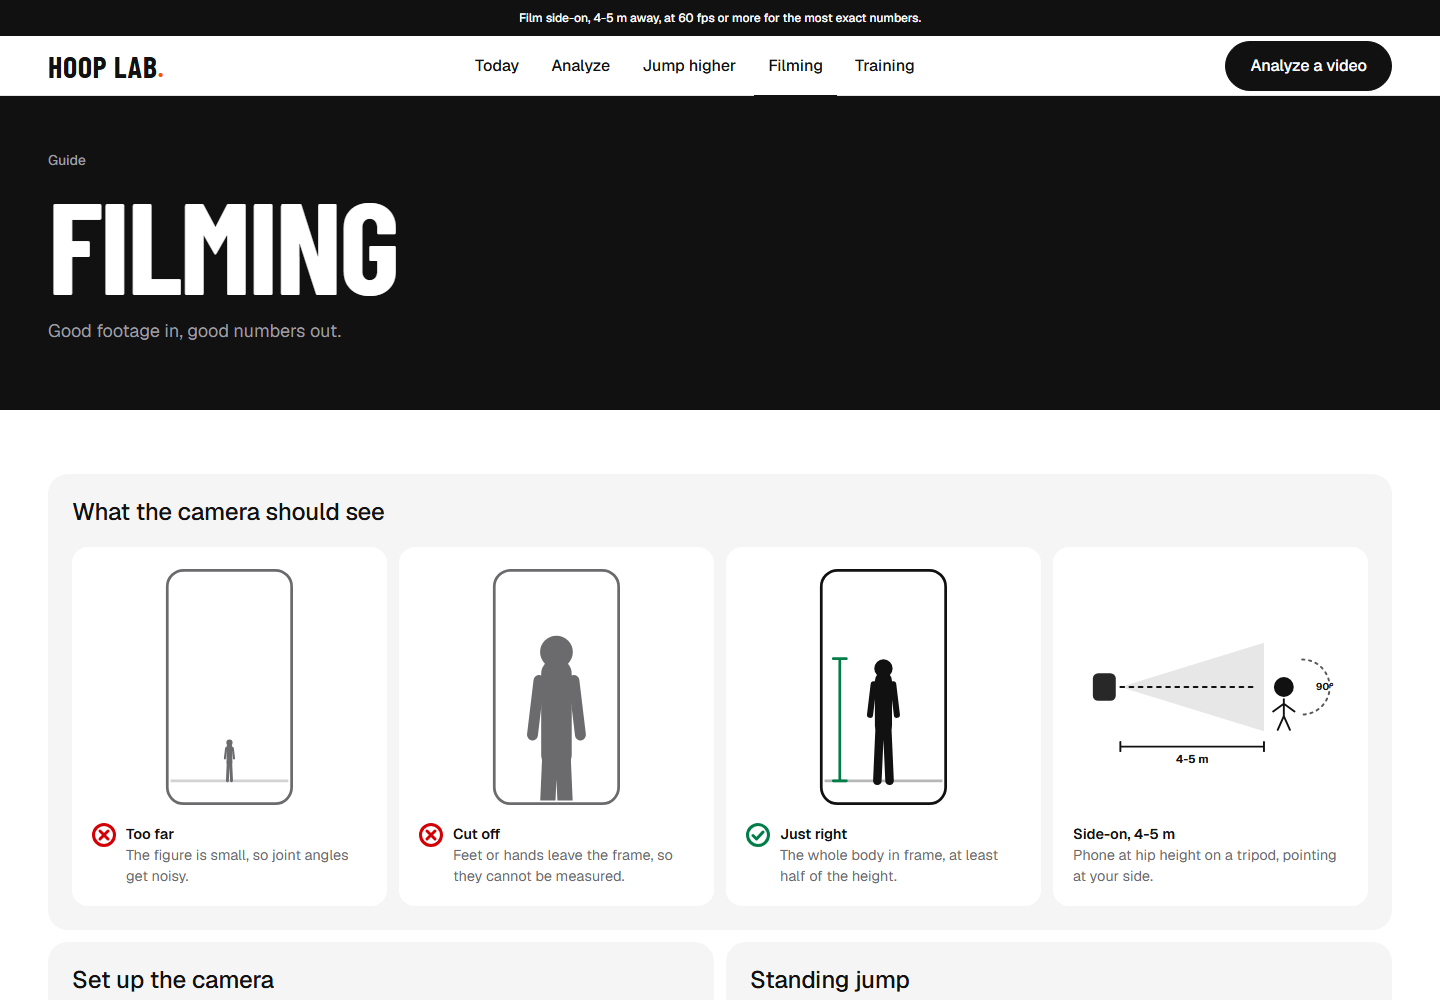
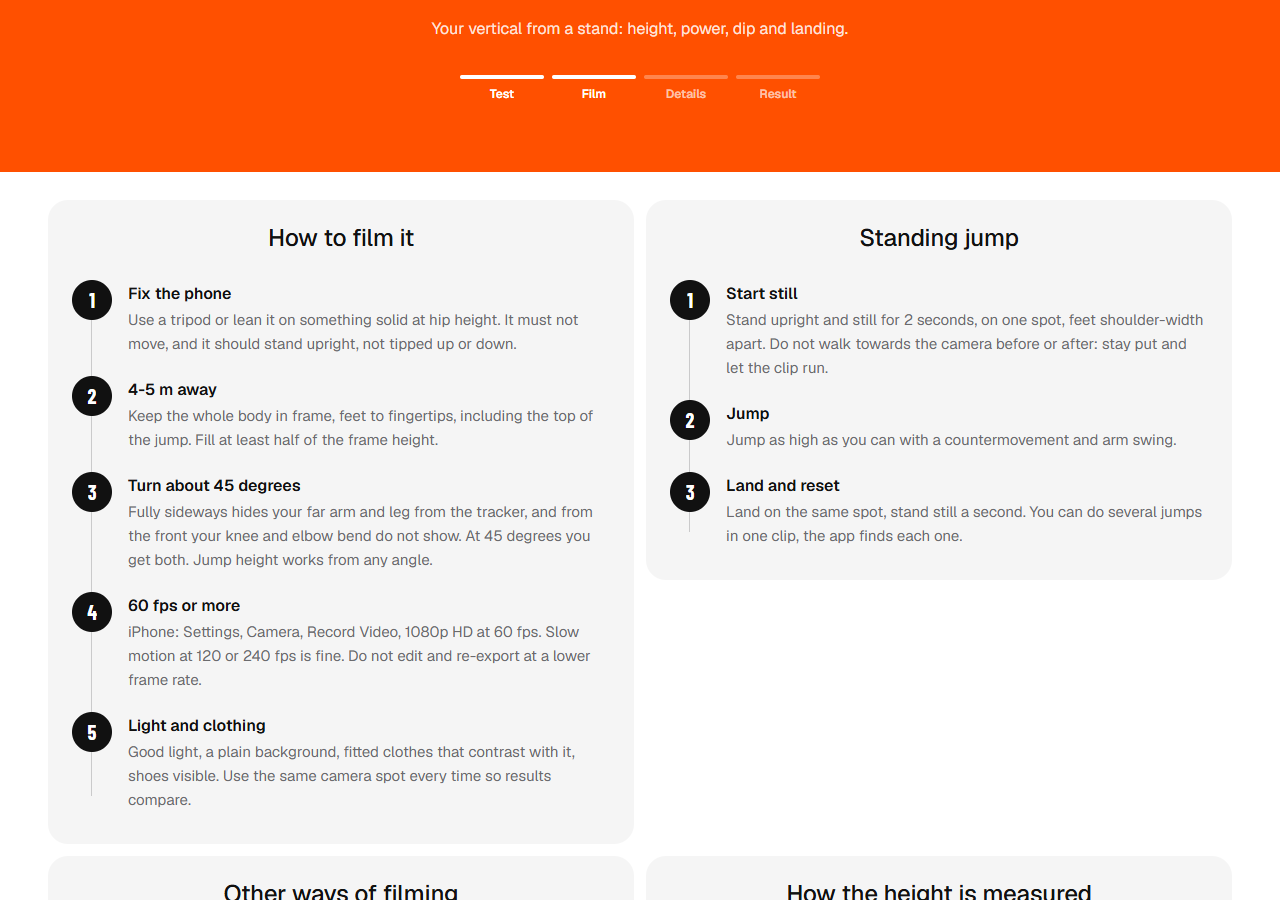
Jump timing pinned between frames (30 fps: average error from 6 to under 2 cm on synthetic jumps), test for it, README and screenshots for the current app

diff --git a/src/analysis.ts b/src/analysis.ts
@@ -1,4 +1,4 @@
-import type { Pose } from './pose';
+import type { Pose, Pt } from './pose';
 
 export type Kind = 'standing' | 'dunk' | 'shot';
 export type Status = 'good' | 'warn' | 'bad' | 'info';
@@ -161,14 +161,32 @@ function calibrate(pose: Pose, heightCm: number, from = 0, to = pose.frames.leng
   return (heightCm * ratio) / percentile(spans, 0.9); // nose-to-ankle is about 89% of body height, unless it was measured on this person
 }
 
-function lowestFoot(pose: Pose): { low: number[]; ground: number } {
-  const low = series(pose, (p) => Math.max(p(29)[1], p(30)[1], p(31)[1], p(32)[1]));
-  return { low, ground: percentile(low, 0.9) };
+function lowestFoot(pose: Pose): { low: number[]; raw: number[]; ground: number } {
+  const foot = (lm: Pt[] | null): number => (lm ? Math.max(lm[29].y, lm[30].y, lm[31].y, lm[32].y) * pose.height : NaN);
+  const raw = fillGaps(pose.frames.map(foot)); // not smoothed: smoothing smears the moment the foot leaves the floor
+  const low = smooth(raw);
+  return { low, raw, ground: percentile(low, 0.9) };
+}
+
+/** Height (cm) at which the foot is taken to leave or touch the floor between two frames: above tracker noise, low enough to be near contact. */
+const CONTACT_CM = 2;
+
+/**
+ * The moment, in frames with a fraction, that the foot passes CONTACT_CM on the way up (dir 1) or down (dir -1), searched
+ * around frame `near`. Between two frames the foot moves almost in a straight line, so the crossing is interpolated.
+ */
+function crossing(lift: number[], near: number, dir: 1 | -1): number | null {
+  for (let k = Math.max(0, near - 2); k <= Math.min(lift.length - 2, near + 2); k++) {
+    const [a, b] = [lift[k], lift[k + 1]];
+    if (dir > 0 ? a <= CONTACT_CM && b > CONTACT_CM : a > CONTACT_CM && b <= CONTACT_CM) return k + (CONTACT_CM - a) / (b - a);
+  }
+  return null;
 }
 
 interface Flight {
   takeoff: number; // last frame on the ground
   landing: number; // first frame back on the ground
+  air?: number; // time in the air in frames, with a fraction, when the moments of leaving and touching the floor could be pinned between frames
   ground: number; // floor level (pixel y) at the place of takeoff
   peak: number; // highest foot clearance in cm
 }
@@ -179,7 +197,7 @@ interface Flight {
  * shifts when the person moves towards or away from the camera.
  */
 function findFlights(pose: Pose, cm: number, near?: [number, number]): Flight[] {
-  const { low } = lowestFoot(pose);
+  const { low, raw } = lowestFoot(pose);
   // floor level per frame: the lowest foot position within 1 s around it, so a floor that
   // shifts in the image (person moves closer or further away) does not look like flight
   const reach = pose.fps;
@@ -204,7 +222,11 @@ function findFlights(pose: Pose, cm: number, near?: [number, number]): Flight[] 
         for (let w = 0; w < maxWalk && landing < lift.length - 1 && lift[landing + 1] <= lift[landing] && lift[landing] > 1.5; w++) landing++;
         const ground = percentile(low.slice(Math.max(0, takeoff - pose.fps), takeoff + 1), 0.9);
         const peak = (ground - Math.min(...low.slice(start, end + 1))) * cm;
-        flights.push({ takeoff, landing, ground, peak });
+        // between frames: when did the foot really pass just above the floor, on the way up and on the way down
+        const liftRaw = raw.map((y, i) => (floor[i] - y) * cm);
+        const up = crossing(liftRaw, takeoff, 1);
+        const down = crossing(liftRaw, landing - 1, -1);
+        flights.push({ takeoff, landing, ground, peak, ...(up !== null && down !== null && down > up ? { air: down - up } : {}) });
       }
       start = -1;
     }
@@ -331,8 +353,14 @@ function jumpResult(pose: Pose, fl: Flight, cm: number, kind: 'standing' | 'dunk
 
   const apex = argmin(hipY, fl.takeoff, fl.landing);
   const rise = (hipY[fl.takeoff] - hipY[apex]) * cm;
-  // takeoff and landing are both frames with a foot still on the floor, so the real flight is about a frame shorter
-  const flightTime = (fl.landing - fl.takeoff - 1) / fps;
+  // takeoff and landing are both frames with a foot still on the floor, so the real flight is about a frame shorter;
+  // better: the moments the foot passed just above the floor, pinned between frames. Those miss the first and last
+  // CONTACT_CM of the flight, which at takeoff speed (g * T / 2) takes 2 * CONTACT_CM / (g * T / 2) seconds, added back.
+  let flightTime = (fl.landing - fl.takeoff - 1) / fps;
+  if (fl.air !== undefined) {
+    const t = fl.air / fps;
+    flightTime = t + (4 * (CONTACT_CM / 100)) / (G * t);
+  }
   const hangHeight = (100 * G * flightTime * flightTime) / 8;
 
   // countermovement: how far the hips lower in the last 0.8 s before takeoff

diff --git a/tests/subframe.test.ts b/tests/subframe.test.ts
@@ -1,0 +1,62 @@
+// The flight-time height when the jump does not start exactly on a frame: many heights, many offsets, at 30 and 60 fps.
+// Takeoff and landing are pinned between frames, so even 30 fps stays within a few centimetres.
+import assert from 'node:assert/strict';
+import { test } from 'node:test';
+import { analyzeJump } from '../src/analysis.ts';
+
+const G = 9.81;
+const W = 1000;
+const H = 1000;
+const BODY_CM = 185;
+
+function build(jumpCm: number, fps: number, offset: number) {
+  const px = 4;
+  const ground = 900;
+  const stand = 1.6 + offset / fps;
+  const dip = 0.4;
+  const rise = 0.25;
+  const flight = 2 * Math.sqrt((2 * (jumpCm / 100)) / G);
+  const total = stand + dip + rise + flight + 1;
+  const frames = [];
+  for (let i = 0; i < total * fps; i++) {
+    const t = i / fps;
+    let lift = 0;
+    let hipDrop = 0;
+    const tDip = t - stand;
+    const tFly = t - (stand + dip + rise);
+    if (tDip > 0 && tDip < dip) hipDrop = 30 * Math.sin((Math.PI * tDip) / dip / 2);
+    else if (tDip >= dip && tFly < 0) hipDrop = 30 * (1 - (tDip - dip) / rise);
+    if (tFly > 0 && tFly < flight) lift = 100 * (G * tFly * ((flight - tFly) / 2));
+    const ankleY = ground - 8 - lift * px;
+    const noseY = ankleY - 0.89 * BODY_CM * px + 8;
+    const hipY = ankleY - 0.5 * BODY_CM * px + hipDrop * px;
+    const kneeY = (hipY + ankleY) / 2;
+    const lm = Array.from({ length: 33 }, () => ({ x: 300 / W, y: hipY / H }));
+    const set = (k: number, x: number, y: number) => (lm[k] = { x: x / W, y: y / H });
+    set(0, 300, noseY);
+    for (const [k, dx] of [[11, -5], [12, 5], [23, -5], [24, 5]] as const) set(k, 300 + dx, k < 20 ? (noseY + hipY) / 2 : hipY);
+    for (const k of [25, 26]) set(k, 325, kneeY);
+    for (const k of [27, 28]) set(k, 300, ankleY);
+    for (const k of [29, 30]) set(k, 290, ankleY + 8);
+    for (const k of [31, 32]) set(k, 320, ankleY + 8);
+    for (const k of [13, 14, 15, 16, 19, 20]) set(k, 300, hipY);
+    frames.push(lm);
+  }
+  return { fps, width: W, height: H, frames, balls: [], world: [] };
+}
+
+const LIMITS: Record<number, { mean: number; worst: number }> = { 30: { mean: 2.5, worst: 5 }, 60: { mean: 0.8, worst: 2 } };
+for (const fps of [30, 60]) {
+  test(`flight-time height is exact to a few cm at ${fps} fps, wherever the jump falls between frames`, () => {
+    const errs: number[] = [];
+    for (const cm of [30, 40, 50, 60, 70]) {
+      for (let o = 0; o < 1; o += 0.1) {
+        const r = analyzeJump(build(cm, fps, o) as never, BODY_CM, 'standing');
+        errs.push(Math.abs(parseFloat(r.metrics.find((m) => m.label.startsWith('Jump height (flight'))!.value) - cm));
+      }
+    }
+    const mean = errs.reduce((a, b) => a + b, 0) / errs.length;
+    assert.ok(mean <= LIMITS[fps].mean, `mean error ${mean.toFixed(2)} cm`);
+    assert.ok(Math.max(...errs) <= LIMITS[fps].worst, `worst error ${Math.max(...errs).toFixed(2)} cm`);
+  });
+}

diff --git a/README.md b/README.md
@@ -22,7 +22,7 @@
 </p>
 
 <p align="center">
-  <img src="docs/dashboard.png" alt="The Hoop Lab dashboard with jump trend, shot score and advice (demo data)" width="900">
+  <img src="docs/dashboard.png" alt="Home: your numbers per discipline and the jump trend (demo data)" width="900">
 </p>
 
 <p align="center"><sub>Screenshots show the built-in demo data (<code>?demo</code>), not real people.</sub></p>
@@ -35,16 +35,20 @@ fps. What is missing is the part that turns that video into numbers you can trus
 
 ## What Hoop Lab does
 
-Pick the type of test, drop in a video and fill in your real height and weight. Hoop Lab steps through the video,
-finds your joints in every frame, finds each jump or shot in the clip and measures it.
+Pick the test, film it or choose a video, check your height (and weight for a jump) and press Analyze. Hoop Lab steps
+through the video, finds your joints in every frame, finds each jump or shot in the clip and measures it.
 
 - **Standing jump and dunk approach jump:** jump height, flight time, countermovement depth, dip bottom to takeoff,
-  landing knee angle, an estimated relative power and, for the dunk, approach speed and reach above the rim.
+  landing knee angle, an estimated relative power and, for the dunk, approach speed and reach above the rim. When both
+  legs are clearly in view each is measured on its own and an uneven landing is flagged; a leg hidden behind the other is
+  left out instead of guessed.
 - **Jump shot:** a form score and the numbers behind it: knee bend, elbow at set point and at release, release height
   and angle, set point to release time, wrist flick, follow-through, how the release lines up with the top of your jump,
-  and forward drift. The ball is tracked, so the launch angle is measured and not guessed.
+  and forward drift. The ball is tracked, so the launch angle is measured and not guessed. With several balls in view it
+  follows the one in your hands, frame by frame.
 - **Where it went wrong:** the key moments of every jump or shot (dip, takeoff, landing; set point, release) are drawn as the
-  tracked body with the joint angles on it. A wedge shows each angle, flagged angles are coloured and show their target,
+  tracked body with the joint angles on it. A wedge between the two limbs shows each angle (the number is the joint angle
+  measured in 3D), flagged angles are coloured and show their target,
   and the card is outlined when it needs work. They are saved with the session as small drawings (about 2 KB), not as
   video, so they contain no faces and can be opened again later. Optionally (off by default) a photo of each moment can
   be kept too: it is cut around you, about 25 KB, stored on this device only and not part of backups, and the drawing is
@@ -52,22 +56,22 @@ finds your joints in every frame, finds each jump or shot in the clip and measur
 - **Replay:** the tracked skeleton of every jump or shot, with a timeline you can step through by phase.
 - **Advice:** every metric that is flagged comes with a plain explanation and concrete drills, with sets and reps. Each
   drill has a Watch link that opens a video search for how to do it, only when you click it.
-- **Progress:** a dashboard with your jump trend, shot score, personal bests, the habits that keep coming back, and an
-  exercise log.
+- **Progress:** Home shows your numbers, the trend chart per discipline, the habits that keep coming back and your recent
+  sessions. Every result ends with three exercises for the coming week that you can log with one tap.
 - **Framing check:** a live camera view that tracks your body and tells you what to fix before you film: whole body in
   frame, big enough with room to jump, turned about 45 degrees (required for a shot, only advised for a jump, whose height works from any
   angle; fully sideways hides your far arm and leg from the tracker), enough light. You can record right there with a 5 second countdown, and the clip goes straight into Analyze.
   The app asks the phone for 60 fps and counts the frames it really gets, so the analysis uses the true frame rate. Some phones only give 30 fps to a browser; then film with your camera app at 60 fps and choose the file.
-- **Built for the phone:** lists of cards become swipeable rows with dots, guide sections fold open one at a time, and long
-  tables show the latest rows first, so there is no endless scrolling.
+- **Built for the phone:** lists of cards become swipeable rows with dots, guide sections fold open one at a time, long
+  tables show the latest rows first, and during a test the buttons sit in the bottom bar, where the tabs normally are.
 - **Correct it by hand:** the takeoff and landing are found automatically; if they are off, adjust them frame by frame and the result and dashboard update. A clip the tracker cannot follow can be measured entirely by hand from the flight time.
 - **Reach test:** the classic Vertec-style measurement by hand: standing reach against a wall and the highest touch of the jump, read off the same picture with the scale from your own height.
 - **Your own scale:** drag two lines on a frame where you stand tall, from the top of your head to your soles. The app learns your nose-to-ankle proportion and uses it for every analysis, instead of the average.
 - **Phone tilt:** a phone that leans sideways is turned back automatically, and the framing check reads the phone's own tilt sensor and warns when it is tipped up or down.
-- **Three tabs:** Today (your charts, and once you have results quick Record and Upload buttons that land in Analyze with your last test filled in), Analyze (swipe to the test, read how to film it right under it, then record or choose a video) and Training (exercises you can log with one tap, your volume, plus how to jump higher).
+- **Three tabs and a test flow:** Home (your numbers and trend, a Test button per discipline, Settings behind the gear), Analyze (four steps: pick the test, film it, your details, the result, each discipline in its own colour) and Training (the same three disciplines with the exercises that fit them, your volume, and how to jump higher). Settings holds your height and weight, the jump goal, install, backup and the version number.
 
 <p align="center">
-  <img src="docs/result.png" alt="Result of one analyzed shot, with every metric on a range gauge and the advice that follows (demo data)" width="900">
+  <img src="docs/result.png" alt="A saved jump: what to work on, every metric on a range gauge, and the key moments (demo data)" width="900">
 </p>
 
 ## How it is different
@@ -112,23 +116,24 @@ npm run dev   # then open http://localhost:5173
 
 On Windows you can also double-click `start.cmd`. It installs on first run, opens the browser and starts the app.
 
-1. Open **Analyze** and enter your real height and weight. They set the scale and the power estimate, so wrong values
-   give wrong numbers. There are no default values on purpose.
-2. Choose the test, choose or drop a video, press **Analyze**. The frame rate is read from the file. Clips at 120 or 240
-   fps are analyzed at 60, or an exact divisor of it, to keep tracking fast.
-3. Keep the tab open until it finishes. The analysis keeps running if you switch tabs inside the app. Expect about 1.5
-   minutes for a 15 second jump clip and about 4 minutes for a 20 second shot clip (the shot also tracks the ball).
-4. The result is saved to the dashboard. Open any session later from the list.
+1. Open **Analyze** and swipe to the test: standing jump, dunk approach or jump shot.
+2. Record with the camera or choose a video. The frame rate is read from the file. Clips at 120 or 240 fps are analyzed at
+   60, or an exact divisor of it, to keep tracking fast.
+3. Enter your real height and, for a jump, your weight. They set the scale and the power estimate, so wrong values give
+   wrong numbers. There are no default values on purpose. A shot works without a height; distances are then estimates.
+4. Press **Analyze** and keep the app open until it finishes. Expect about 1.5 minutes for a 15 second jump clip and
+   about 4 minutes for a 20 second shot clip (the shot also tracks the ball).
+5. The result is saved. Open any session later from Home.
 
 To try the app before you have a video, open `http://localhost:5173/?demo`. It loads clearly labelled sample data that
 you can remove in one click.
 
 From a phone on the same wifi: `npm run dev` prints a Network URL. Open it on the phone and choose a video. Results live
-in the browser you used, so phone and PC keep separate dashboards. Use **Your data** on the dashboard to export a backup
+in the browser you used, so phone and PC keep separate results. Use **Your data** in Settings to export a backup
 and import it somewhere else.
 
 <p align="center">
-  <img src="docs/filming-guide.png" alt="The filming guide with camera diagrams (demo data)" width="900">
+  <img src="docs/filming-guide.png" alt="The Film step: how to film the test you picked (demo data)" width="900">
 </p>
 
 ## On your phone
@@ -147,8 +152,8 @@ address is `https://lexvanwalsem.github.io/hoop-lab/`. Any other static host wit
 2. After the first start the app and its models are cached, so it also works offline.
 
 HTTPS is required for installing and for the camera in the framing check. A plain `http://` address on your wifi still
-works for analyzing videos, just not for installing. Results live in the browser or app you used: use **Your data** on
-the dashboard to move a backup between devices: on a phone the export opens the share sheet, so you can save the file
+works for analyzing videos, just not for installing. Results live in the browser or app you used: use **Your data** in
+Settings to move a backup between devices: on a phone the export opens the share sheet, so you can save the file
 to Files, iCloud or Drive, or mail it to yourself. Import picks the file again from there. Speed depends on the phone, and tracking is slower on older ones.
 
 ## Filming in short
@@ -160,7 +165,7 @@ to Files, iCloud or Drive, or mail it to yourself. Import picks the file again f
 - Stay on one spot and stand still for 2 seconds at the start. Do not walk towards the camera: the tracker then mistakes the shifting floor for a jump. Good light, a plain background, fitted clothes, shoes visible.
 - Use the same camera spot every time so results are comparable.
 
-The **Record** tab shows how to film right under the test you pick, with diagrams.
+The **Film** step in Analyze shows how to film the test you picked, with diagrams.
 
 ## How it works
 
@@ -169,7 +174,8 @@ The **Record** tab shows how to film right under the test you pick, with diagram
 2. **Calibration.** The scale in centimetres per pixel comes from your height: the nose-to-ankle span is about 89 % of
    your height, measured while you stand upright in the 4 seconds before takeoff. Wrong height means wrong scale.
 3. **Jump height.** The standing jump height comes from flight time, `h = g * T^2 / 8`, where `T` is the time between
-   takeoff and landing. It needs no scale at all, which makes it the most reliable number. The rise of the hips is shown
+   takeoff and landing. It needs no scale at all, which makes it the most reliable number. The moments the feet leave and
+   touch the floor are pinned between two frames, so the timing is finer than one frame. The rise of the hips is shown
    next to it. Relative power uses the Sayers formula, `60.7 * jump height + 45.3 * body mass - 2055`, and is an
    estimate for comparing yourself over time, not an exact measure.
 4. **Shots.** A shot is the shooting wrist above the nose with the elbow extending, and shots less than 2 seconds apart
@@ -187,28 +193,29 @@ The **Record** tab shows how to film right under the test you pick, with diagram
 - **Honest numbers.** Targets in the app are starting points, the accuracy is stated below, and demo data is always
   labelled.
 - **Tests.** `npm test` checks the calibration, jump and shot detection on synthetic stick-figure clips with known
-  answers, and the storage, backup, advice and video header logic.
+  answers (including jump height at 30 and 60 fps wherever the jump falls between frames), picking the right ball among
+  several, measuring both legs, and the storage, backup, advice and video header logic.
 
 ## Limits
 
-- Accuracy is roughly 3 to 5 cm for the jump. The same video can differ a few centimetres between runs, because stepping
-  through a video does not land on exactly the same frames every time.
-- At 30 fps the jump height is fine, but takeoff and landing timing and shot timing are coarse (33 ms per frame).
+- On synthetic clips with a known answer the flight-time height is off by about 2 cm on average at 30 fps and well under
+  1 cm at 60 fps. Real clips add tracker noise, so expect roughly 3 to 5 cm. The same video can differ a little between
+  runs, because stepping through a video does not land on exactly the same frames every time.
+- At 30 fps shot timing is coarse (33 ms per frame). Film at 60 fps or more for shots.
 - A figure that is small in the frame makes joint angles noisy. A front view is less accurate than a side view for joint
   angles.
 - Ball detection uses a generic "sports ball" model. A ball hidden in the hand or blurred is often missed. When it is
-  not found, the release is estimated from the elbow.
+  not found, the release is estimated from the elbow. With several balls in view the one nearest your hands is followed.
 - Make or miss is out of scope. Hoop Lab is about form, not outcome.
 - Some iPhone videos are HEVC (H.265) and not every browser can decode them. Use Safari or Edge, or convert the video to
   H.264.
-- Tracking takes minutes, and a browser can slow down background tabs. Keep the analysis tab visible.
+- Tracking takes minutes, and a browser can slow down background tabs. Keep the app open and in front.
 - Metric thresholds in `src/analysis.ts` are starting points. Tune them to your own good reps.
 - This is general training information, not medical advice. Stop if you feel pain.
 
 ## What is next
 
 - Compare two sessions side by side
-- Draw the tracked skeleton on top of your original video
 - A free-throw and layup mode
 - A lighter tracking model as an option for older phones
 - Animated demos of the drills, drawn with the same skeleton as the jump guide, instead of a video search
